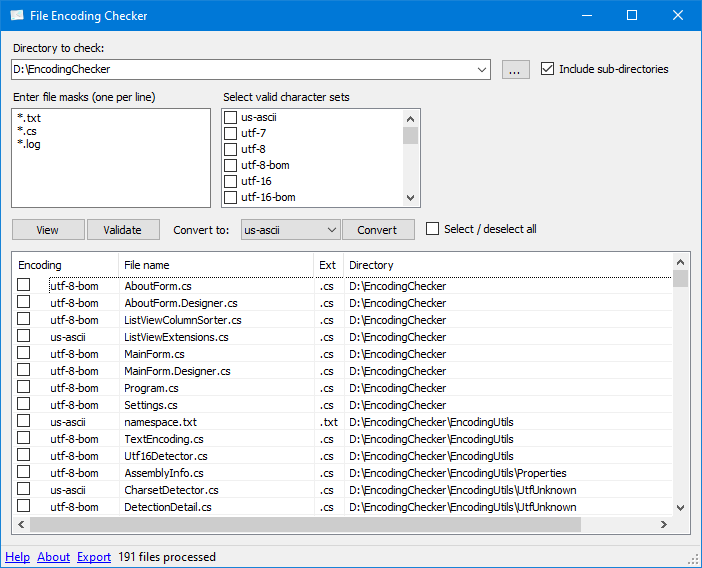
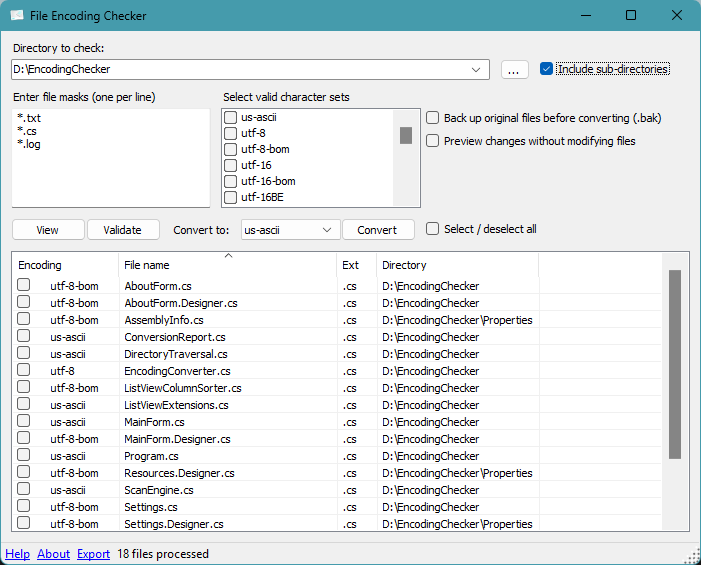
Update the form screenshot and tighten MainForm comments
form.png now shows the current UI, including the two Convert options in
their new position, with labels matching what the README documents.

Comment-only edits in MainForm.cs; no code changed. The invariants that
guard the recent fixes are all still stated: that e.Result's getter
throws once the operation is cancelled (so partial results go through a
field instead), why UpdateResultItem is internal, and that the
CheckedChanged handler must be detached around the tri-state reset or it
clears every row's selection.

Changed region(s): [[0.0, 0.0, 1.0, 1.0]]

diff --git a/sources/EncodingChecker/MainForm.cs b/sources/EncodingChecker/MainForm.cs
@@ -51,24 +51,20 @@ public partial class MainForm : Form
     private CancellationTokenSource? _actionCancellation;
     private bool _closeRequested;
 
-    // Set by OnConvert, read back by ConvertWorkerCompleted; never touched by the worker thread.
+    // Set by OnConvert and read by ConvertWorkerCompleted; never touched by the worker.
     private Dictionary<string, ListViewItem>? _convertItemsByPath;
     private string? _convertTargetLabel;
 
-    // Filled by the worker thread, read by ConvertWorkerCompleted once it finishes.
-    // RunWorkerCompletedEventArgs.Result cannot carry this: its getter throws
-    // InvalidOperationException whenever the operation was cancelled, which is exactly
-    // when the partial results still need to be applied to the list.
+    // Written by the worker and read after completion. e.Result cannot be used
+    // because its getter throws when the operation is cancelled.
     private ConcurrentBag<ConversionReportEntry>? _convertResults;
 
-    // Set by OnConvert from chkPreviewChanges, read back by ConvertWorkerCompleted.
-    // ConversionRowResult.Converted means "converted" *or* "would be converted under a
-    // dry run", so the presentation layer needs this to tell the two apart.
+    // Set by OnConvert and read by ConvertWorkerCompleted to distinguish
+    // actual conversion from preview ("would be converted").
     private bool _convertWasPreview;
 
-    // Indices into imgsResults (see the SetKeyName calls in MainForm.Designer.cs).
-    // "Warning" is reused for the preview/would-change state: it already exists, and
-    // is visually distinct from both the success icon and an untouched row.
+    // Indices into imgsResults (see SetKeyName calls in MainForm.Designer.cs).
+    // Reuses the existing Warning icon for the preview/would-change state.
     private const int RESULT_ICON_SUCCESS = 0;
     private const int RESULT_ICON_WOULD_CHANGE = 2;
 
@@ -808,9 +804,8 @@ public partial class MainForm : Form
         UpdateControlsOnActionDone(statusMessage);
     }
 
-    // Single place that formats a row from its ConversionReportEntry.
-    // internal so the preview/convert presentation contract can be tested against a
-    // standalone ListViewItem, without needing a real form (see MainForm's tests).
+    // Formats one result row. Kept internal so preview/convert presentation
+    // behavior can be tested without creating a real form.
     internal static void UpdateResultItem(
         ListViewItem item,
         ConversionReportEntry entry,
@@ -843,7 +838,7 @@ public partial class MainForm : Form
             Debug.WriteLine(
                 $"Conversion skipped for {entry.FilePath}: encoding could not be determined.");
         }
-        // Unchanged: already matched the target; nothing was written, row stays as-is.
+        // Unchanged: already matches the target; leave the row unchanged.
     }
 
     #endregion
@@ -1023,11 +1018,9 @@ public partial class MainForm : Form
         btnConvert.Enabled = false;
         chkSelectDeselectAll.Enabled = false;
 
-        // Resetting the tri-state box is a widget reset, not a data operation: without
-        // this guard it raises CheckedChanged -> OnSelectDeselectAll, which clears every
-        // row's checked state. Preview in particular must leave the user's selection
-        // intact so a follow-up real Convert still has files to act on. Same
-        // detach/reattach pattern OnResultItemChecked already uses.
+        // Reset only the tri-state widget; without detaching this handler, CheckedChanged
+        // calls OnSelectDeselectAll and clears all row selections. Preview must preserve
+        // those selections for a later real Convert.
         chkSelectDeselectAll.CheckedChanged -= OnSelectDeselectAll;
 
         try
@@ -1040,8 +1033,7 @@ public partial class MainForm : Form
             chkSelectDeselectAll.CheckedChanged += OnSelectDeselectAll;
         }
 
-        // Convert-only options; their checked state is the user's choice and must
-        // persist across runs, so only Enabled changes here - never CheckState.
+        // Preserve the user's option choices across runs; disable only while the action runs.
         chkCreateBackup.Enabled = false;
         chkPreviewChanges.Enabled = false;
 
@@ -1105,11 +1097,9 @@ public partial class MainForm : Form
         actionStatus.Text = statusMessage;
     }
 
-    // Matches the encodings reported by UtfUnknown.Core.CodepageName. UTF-7 is
-    // deliberately excluded: .NET disabled it by default for security reasons (see
-    // SYSLIB0001 - UTF-7 content can be crafted to evade validation that assumes a
-    // different encoding), so Encoding.GetEncoding throws NotSupportedException for
-    // it. Omitting it here documents that instead of leaving it implicit.
+    // Matches encodings reported by UtfUnknown.Core.CodepageName.
+    // UTF-7 is intentionally excluded because .NET disables it by default (SYSLIB0001)
+    // and Encoding.GetEncoding throws NotSupportedException.
     private static readonly string[] SupportedCharsets =
     [
         "ascii", "utf-8", "utf-16le", "utf-16be",
